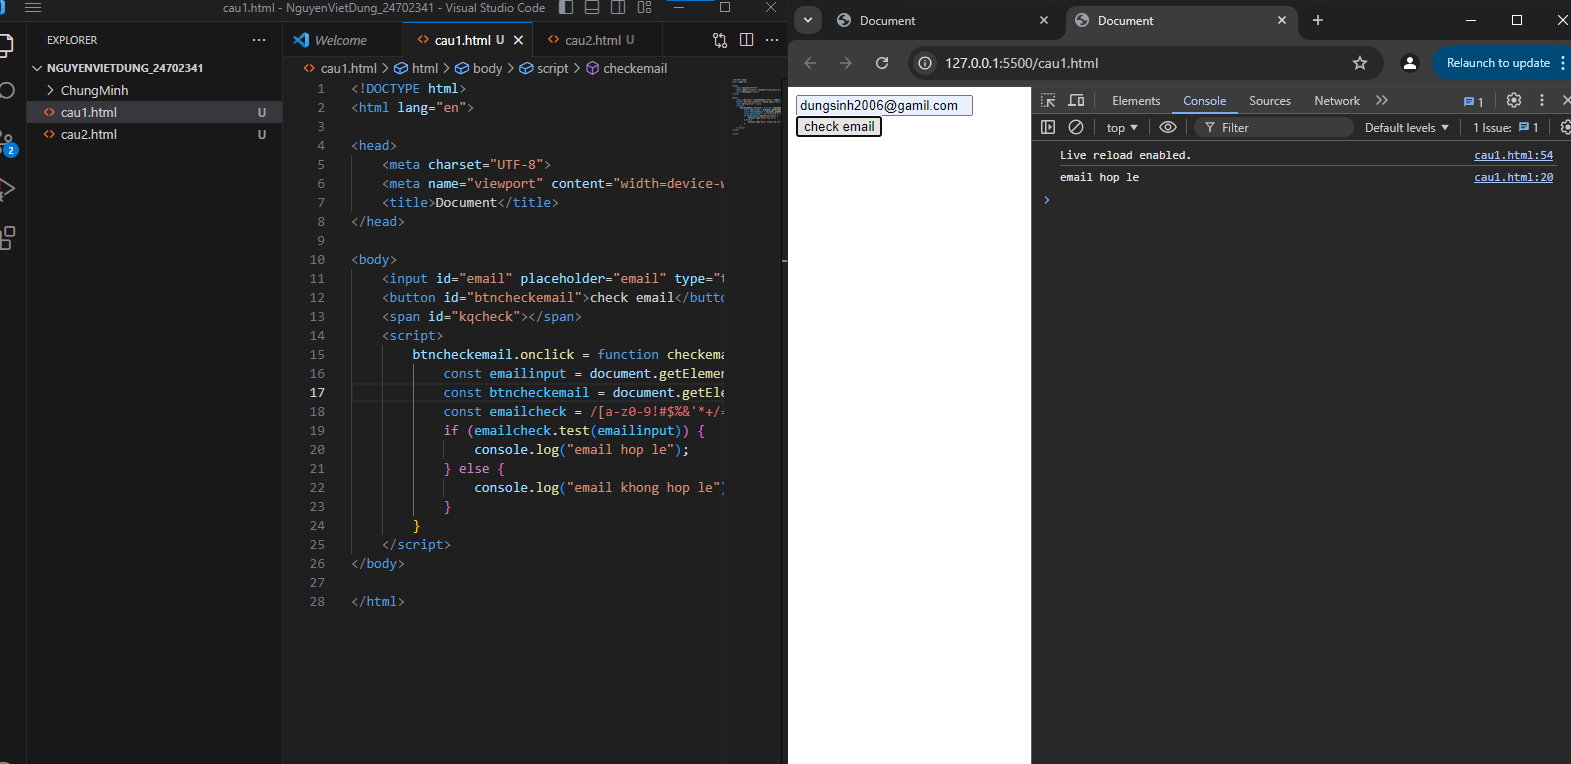
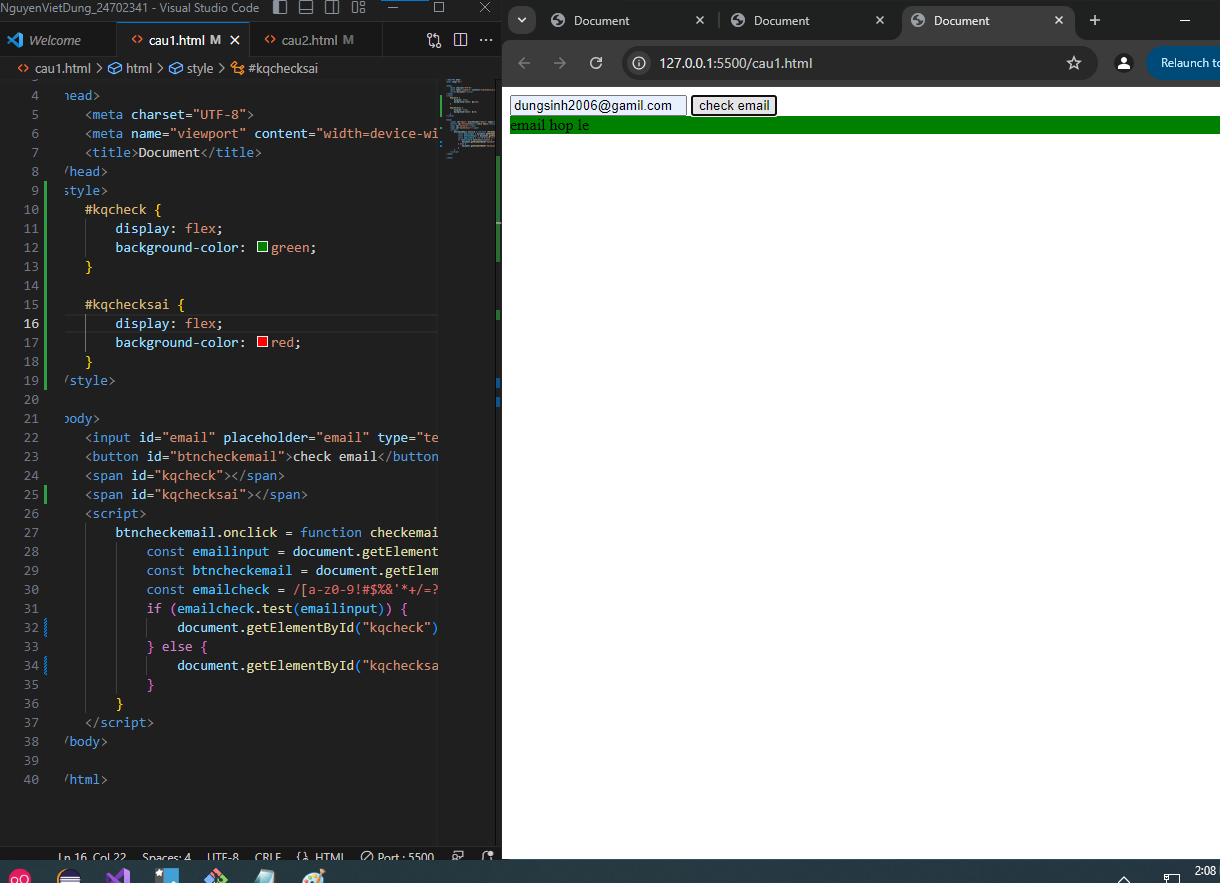
add bo xung cau1.html + minh chung cau1

diff --git a/cau1.html b/cau1.html
@@ -6,20 +6,32 @@
     <meta name="viewport" content="width=device-width, initial-scale=1.0">
     <title>Document</title>
 </head>
+<style>
+    #kqcheck {
+        display: flex;
+        background-color: green;
+    }
+    
+    #kqchecksai {
+        display: flex;
+        background-color: red;
+    }
+</style>
 
 <body>
     <input id="email" placeholder="email" type="text">
     <button id="btncheckemail">check email</button>
     <span id="kqcheck"></span>
+    <span id="kqchecksai"></span>
     <script>
         btncheckemail.onclick = function checkemail() {
             const emailinput = document.getElementById("email").value.trim();
             const btncheckemail = document.getElementById("btncheckemail");
             const emailcheck = /[a-z0-9!#$%&'*+/=?^_`{|}~-]+(?:\.[a-z0-9!#$%&'*+/=?^_`{|}~-]+)*@(?:[a-z0-9](?:[a-z0-9-]*[a-z0-9])?\.)+[a-z0-9](?:[a-z0-9-]*[a-z0-9])?/g;
             if (emailcheck.test(emailinput)) {
-                console.log("email hop le");
+                document.getElementById("kqcheck").textContent = "email hop le";
             } else {
-                console.log("email khong hop le");
+                document.getElementById("kqchecksai").textContent = "email khong hop le";
             }
         }
     </script>

diff --git a/cau2.html b/cau2.html
@@ -1,5 +1,5 @@
 <!DOCTYPE html>
-<html lang="en">
+<html lang="vi">
 
 <head>
     <meta charset="UTF-8">
@@ -13,14 +13,11 @@
     <span id="kqcheck"></span>
     <script>
         btncheck.onclick = function checksdt() {
-            console.log('click');
             const sdtinput = document.getElementById("sdt").value.trim();
-            const btnchecksdt = document.getElementById("btncheck");
-            const sdtcheck = /^0|\+84)[0-9]{9}$/;
-            if (sdtcheck.test(sdtinput)) {
-                console.log("sdt hop le");
-            } else {
-                console.log("sdt khong hop le");
+            const btncheck = document.getElementById("btncheck");
+            const stdcheck = /^(0|\+84)[0-9]{9}$/;
+            if (stdcheck.test(sdtinput)) {
+                console.log("so dien thoai hop le");
             }
         }
     </script>
